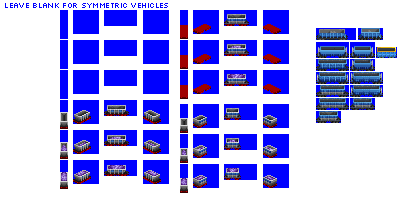
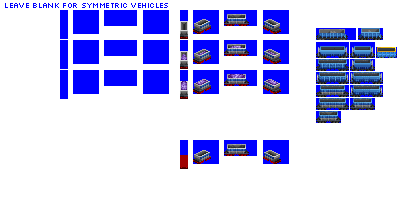
Change: WIP On hopper car sprites

diff --git a/src/vehicles/hopper_cars.py b/src/vehicles/hopper_cars.py
@@ -54,10 +54,12 @@ def main():
     consist = HopperCarConsist(roster='pony',
                                base_numeric_id=1380,
                                gen=4,
-                               subtype='B')
+                               subtype='B',
+                               sprites_complete=True)
 
     consist.add_unit(type=FreightCar,
-                     vehicle_length=6)
+                     vehicle_length=6,
+                     chassis='4_axle_sparse_24px')
 
 
     consist = HopperCarConsist(roster='pony',
@@ -74,10 +76,12 @@ def main():
     consist = HopperCarConsist(roster='pony',
                                base_numeric_id=1090,
                                gen=5,
-                               subtype='B')
+                               subtype='B',
+                               sprites_complete=True)
 
     consist.add_unit(type=FreightCar,
-                     vehicle_length=6)
+                     vehicle_length=6,
+                     chassis='4_axle_sparse_24px')
 
 
     consist = HopperCarConsist(roster='pony',
